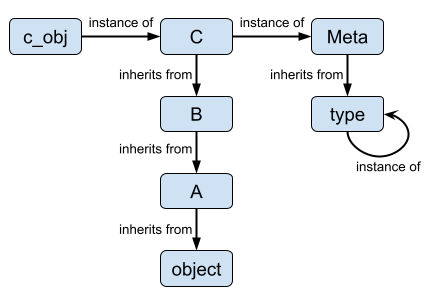
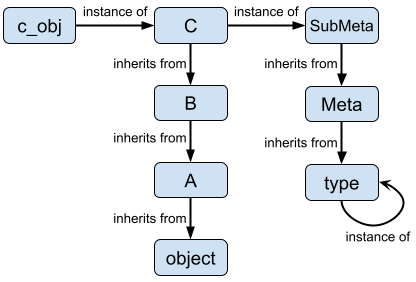
Update README to add SubMeta

diff --git a/django/splice/README.md b/django/splice/README.md
@@ -63,9 +63,12 @@ and a class, and between a class and a metaclass are illustrated below.
 Both class and metaclass support inheritance. In a class inheritance chain, the
 root is always the `object` class, while in a metaclass inheritance chain, the
 root is always the `type` metaclass. For ease of discussion, we will use the
-following classes and metaclass as an example:
+following classes and metaclasses as an example:
 ```python
 class Meta(type):
+    pass
+
+class SubMeta(Meta):
     pass
 
 class A(object):
@@ -74,7 +77,7 @@ class A(object):
 class B(A):
     pass
 
-class C(B, metaclass=Meta):
+class C(B, metaclass=SubMeta):
     pass
 
 c_obj = C()
@@ -99,22 +102,24 @@ method along the MRO so that the overriding method does not simply replace the
 same methods defined in the rest of the MRO. This can be done by using `super()`
 to identify the next base class that defines the same method and then calling the
 base class' method in the subclass. This property is particularly important for
-instance creation, as we will see next.
+instance creation, as we will see next. Metaclass inheritance follows the same
+principles.
 
 The general workflow of creating a new class instance is illustrated
 below <sup id="a1">[1](#f1)</sup>:
 
 <img src="./img/object_creation.png" width="300" height="350">
 
-In our example, to create `c_obj`, `Meta`'s `__call__` special method is first
+In our example, to create `c_obj`, `SubMeta`'s `__call__` special method is first
 invoked, which calls `__new__` and `__init__` special methods defined in
 `C`. <sup id="a2">[2](#f2)</sup> The new instance (i.e., `c_obj`) is eventually
 returned by `__call__`. In our template code above, `__call__` is not defined
-in `Meta`, so it is inherited from `type`. Similarly, Python cannot find `__call__`
-or `__init__` defined in `C`, nor in `B` or `A`, so it follows the MRO and invokes
-those methods defined in `object`. `type` and `object` are Python's default
-instance creation approach. We can customize this process by overriding `__call__`
-in `Meta` or `__new__` and `__init__` in `C`, `B`, and/or `A`.
+in `SubMeta` or `Meta`, so it is inherited from `type`. Similarly, Python cannot
+find `__call__` or `__init__` defined in `C`, nor in `B` or `A`, so it follows the
+MRO and invokes those methods defined in `object`. `type` and `object` are Python's
+default instance creation approach. We can customize this process by overriding
+`__call__` in `SubMeta` and/or `Meta`, or `__new__` and `__init__` in `C`, `B`,
+and/or `A`.
 > `__call__` is only invoked when the callable class object is called (i.e., `C()`).
 > One can bypass `__call__` and construct a new class instance directly by invoking
 > `c_obj = C.__new__(...)` and then `c_obj.__init__(...)`. However, this is not a
@@ -123,20 +128,31 @@ in `Meta` or `__new__` and `__init__` in `C`, `B`, and/or `A`.
 #### Customize `__call__` in Metaclass
 We can override `type`'s `__call__` to customize object instantiation. Generally,
 regardless of customization, `__call__` should invoke `__new__` and `__init__`
-and return the created instance. For example, we can customize `__call__` in `Meta`:
+and return the created instance. For example, we can customize `__call__` in
+`SubMeta` and `Meta`:
 ```python
+class SubMeta(Meta):
+    def __call__(cls, *args, **kwargs):
+        if "level" not in kwargs:
+            kwargs["level"] = 0
+        return super().__call__(cls, *args, **kwargs)
+
 class Meta(type):
     def __call__(cls, *args, **kwargs):
         instance = cls.__new__(cls, *args, **kwargs)
         instance.__init__(*args, **kwargs)
         return instance
 ```
-`Meta`'s `__call__` overrides the default (i.e., `type`) `__call__`, so when
-`c_obj` is being constructed, i.e., `c_obj = C()`, `Meta`'s `__call__` is invoked.
-Notice that `__call__` is what makes the class object `C` callable (i.e., `C()`).
-Similarly, if we define `__call__` in `C`, `c_obj` becomes callable (i.e., we can
-do `c_obj()`). `args` and `kwargs` are the positional and keyword arguments passed
-into `C()`. In our example, they are both empty, but if we do,
+`SubMeta`'s `__call__` overrides the default (i.e., `type`) `__call__`, so when
+`c_obj` is being constructed, i.e., `c_obj = C()`, `SubMeta`'s `__call__` is
+first invoked. The method inserts the `level` keyword argument and gives it a
+default value `0` if it was not provided by `C()`. It then calls `Meta`'s
+`__call__` method, which constructs the `C` instance by invoking `C`'s `__new__`
+and `__init__` methods. Notice that `__call__` is what makes the class object
+`C` callable (i.e., `C()`). Similarly, if we define `__call__` in `C`,
+`c_obj` becomes callable (i.e., we can do `c_obj()`). `args` and `kwargs` are the
+positional and keyword arguments passed into `C()`. In our example, they are both
+empty, but if we do,
 ```python
 c_obj = C("this is an example", 1, level=3, demo=True)
 ```
@@ -157,7 +173,7 @@ hand, has no such requirement, but prematurally terminating the inheritance chai
 of `__init__` methods can lead to incomplete initialization of an instance. For
 example, we can customize `C`, `B`, and `A` as the following:
 ```python
-class C(B, metaclass=Meta):
+class C(B, metaclass=SubMeta):
     def __new__(cls, *args, **kwargs):
         print(kwargs["level"])
         del kwargs["level"]  # remove "level" keyword argument from kwargs
